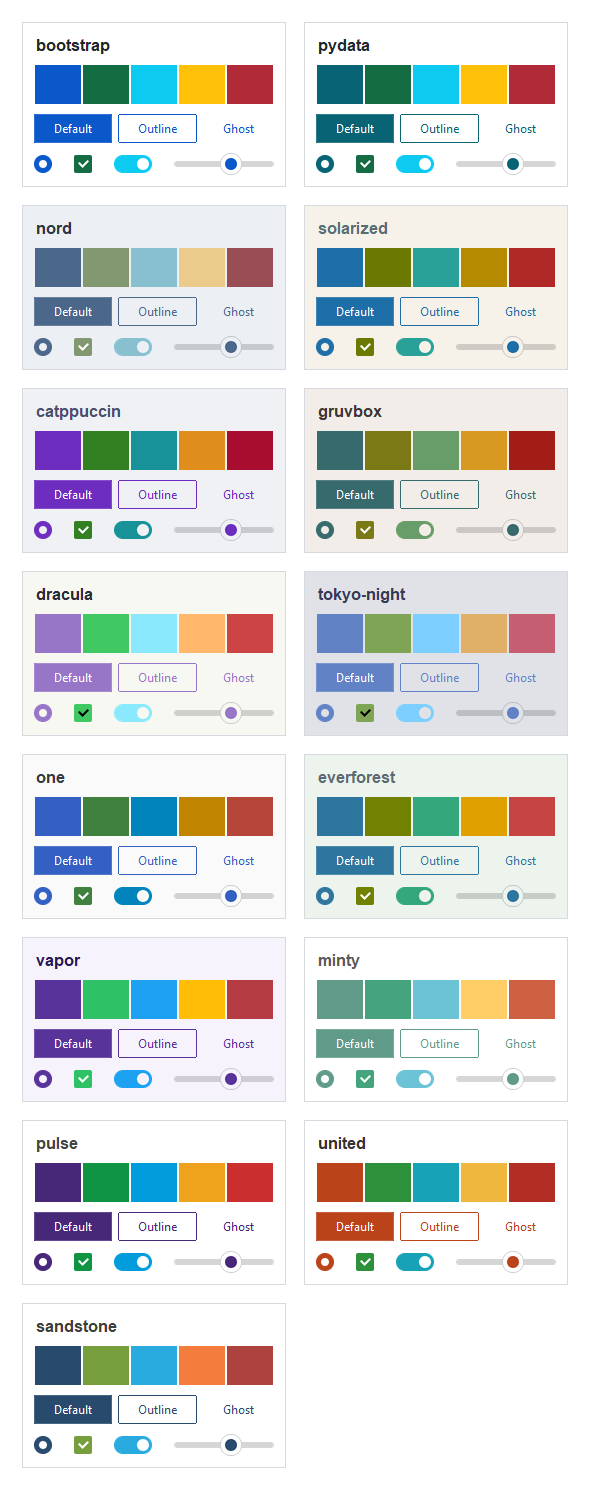
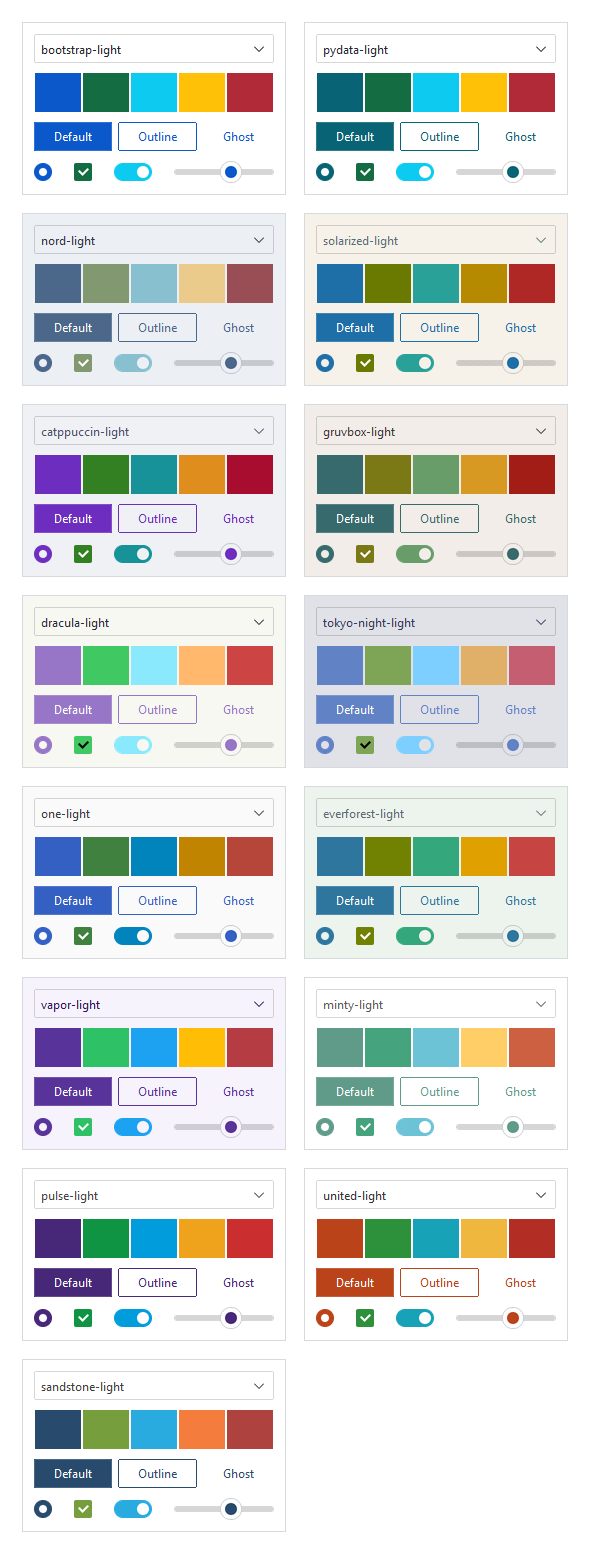
docs(screenshots): gallery card uses a theme-name combobox; fix pydata white-card
Card: replace the family-name label with a readonly combobox showing the exact
theme name (bootstrap-light, ...) -- labels the card and demos the widget.

CSS: pydata paints every content image a white background (its transparent
margins then read as a white card around the gallery). Add the gallery images to
the tb- background-strip override (a .tb-gallery class, !important) so the
transparent montage shows through.

Refs #1255

diff --git a/docs/_static/custom.css b/docs/_static/custom.css
@@ -102,12 +102,14 @@ html[data-theme="dark"]  .tb-screenshot-light { display: none  !important; }
 .bd-content img.tb-screenshot-dark,
 .bd-content img.tb-screenshot-light,
 .bd-content img.tb-window-screenshot,
-.bd-content img.tb-dialog-screenshot {
+.bd-content img.tb-dialog-screenshot,
+.bd-content img.tb-gallery {
     background-color: transparent !important;
     filter: none !important;
 }
 .bd-content img.tb-screenshot-dark,
-.bd-content img.tb-screenshot-light {
+.bd-content img.tb-screenshot-light,
+.bd-content img.tb-gallery {
     border-radius: 0 !important;
 }
 

diff --git a/docs/scripts/theme_gallery.py b/docs/scripts/theme_gallery.py
@@ -46,10 +46,12 @@ def _capture_one(theme: str, out: str) -> None:
     holder.pack(fill="both", expand=True)
     card = ttk.Frame(holder, padding=12)
     card.pack(fill="x", padx=12, pady=12)
-    ttk.Label(card, text=family, font="-size 12 -weight bold").pack(anchor="w")
+    combo = ttk.Combobox(card, values=[f"{family}-light", f"{family}-dark"], state="readonly")
+    combo.set(theme)                       # the exact theme name, in a real widget
+    combo.pack(fill="x")
 
     chips = ttk.Frame(card)
-    chips.pack(fill="x", pady=(8, 10))
+    chips.pack(fill="x", pady=(10, 10))
     for c in ["primary", "success", "info", "warning", "danger"]:
         ttk.Label(chips, bootstyle=f"@{c}", padding=(0, 10)).pack(
             side="left", fill="x", expand=True, padx=1)

diff --git a/docs/user-guide/feature-guides/theming.rst b/docs/user-guide/feature-guides/theming.rst
@@ -99,12 +99,14 @@ with a light and dark variant, for **30 built-in themes**. List them live with
    .. tab-item:: Light
 
       .. image:: /_static/examples/theming-gallery-light.png
+         :class: tb-gallery
          :width: 590px
          :alt: A sample card in each of the 15 theme families — palette, buttons, and controls — light mode
 
    .. tab-item:: Dark
 
       .. image:: /_static/examples/theming-gallery-dark.png
+         :class: tb-gallery
          :width: 590px
          :alt: A sample card in each of the 15 theme families — palette, buttons, and controls — dark mode
 